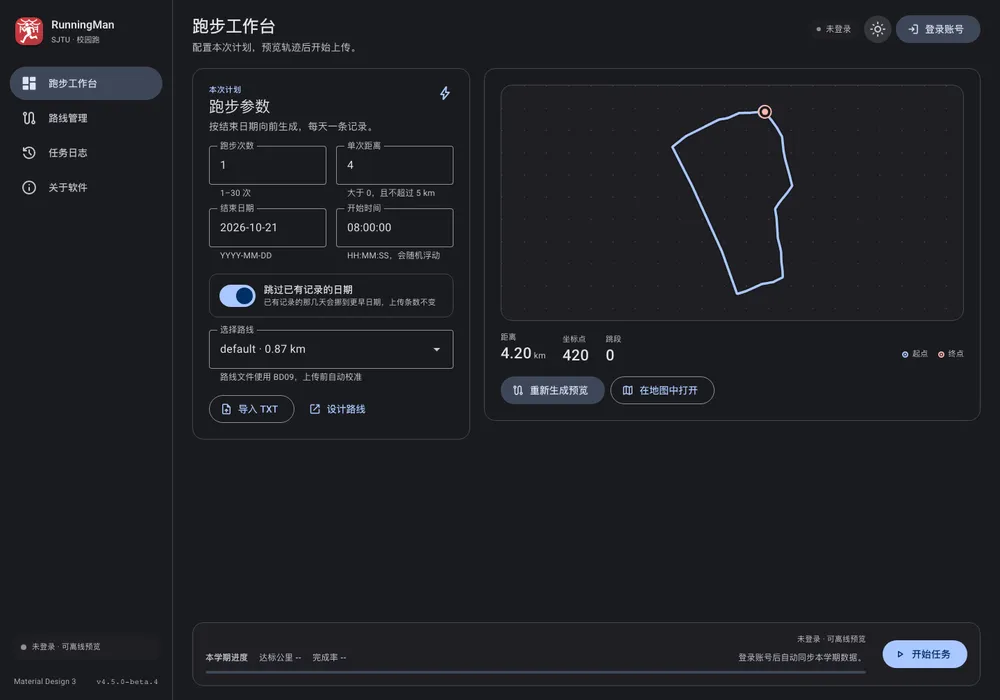
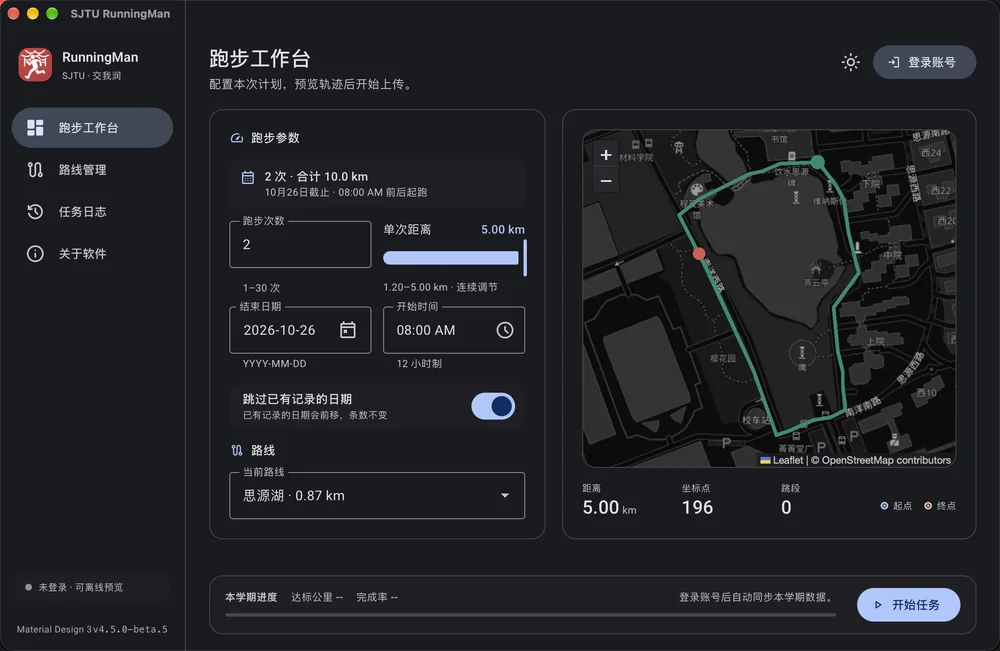
chore(release): 准备 4.5.0 正式版
- 桌面版本号统一为 4.5.0（Cargo.toml / package.json / Cargo.lock / e2e mock）
- CHANGELOG 补发布日期与地图底图去色条目
- 更新桌面、安卓、iOS 文档截图并校正截图规格
- 补充地图灰度化与亮暗主题跟随说明（中英）

diff --git a/desktop/e2e/mock-init.js b/desktop/e2e/mock-init.js
@@ -125,7 +125,7 @@ function handle(command, args) {
   switch (command) {
     case 'bootstrap':
       return {
-        version: 'v4.5.0-beta.4',
+        version: 'v4.5.0',
         date: '2026-10-21',
         settings: {
           dark: false,
@@ -211,7 +211,7 @@ function handle(command, args) {
     case 'verify_code':
       return { verified: true, locked: false, message: '二次验证成功' };
     case 'check_update':
-      return '当前 v4.5.0-beta.4 已是最新版本';
+      return '当前 v4.5.0 已是最新版本';
     case 'open_planner':
       return { notice: '规划器已打开：导出 TXT 后通过「导入 TXT」添加' };
     case 'preview_map':

diff --git a/docs/desktop.md b/docs/desktop.md
@@ -31,7 +31,7 @@
    「跳过已有记录的日期」默认开启：学期日历里已有记录的那几天会自动挪到更早的日期，上传条数仍等于设定次数；关闭后按结束日期连续向前生成。登录成功后客户端会按本学期未完成公里数自动设定跑步次数与单次距离，若这两个值已被你手动修改过则保持不变。
 2. 工作台的「当前路线」选择内置「思源湖」；在「路线管理」页通过「导入 TXT」添加 BD09 路线。文本为 UTF-8，每行 `longitude,latitude`，至少 2 个不同点。文件上限 2 MB、30,000 个点。导入保留独立副本；删除只影响导入副本，内置路线不能删除。
 3. 工作台自动预览当前距离的路线，无需登录或点击生成按钮；轨迹计算在本地完成，默认显示的在线底图需要网络，不再显示参数过期提示。红色线段表示超过 150 m 的跳段，蓝色为正常轨迹；起点与终点用不同标记。原始路线超过目标距离时自动截取；较短的开放路线往返，闭合路线循环。调整「单次距离」滑块时，右侧路线立即逐帧更新，终点沿路线平滑移动，缩短距离时沿路回退，视野保持稳定；内嵌地图也同步更新且不会关闭或重新加载。开启系统「减少动态效果」时直接显示新终点。工作台展示按所选距离计算的几何轨迹，右侧距离与左侧设置一致，不再额外增加 200 m，坐标点数为当前绘图顶点数；实际采样轨迹由后端生成；路线管理页同样按当前单次距离自动预览，切换、导入或删除路线后同步更新在线地图与本地轨迹，无需手动生成。最终录入与达标里程以服务器记录为准，可能与本地轨迹距离有差异。自动更新不会弹顶部提示。 工作台的预览卡片默认显示带在线底图的轨迹，下方保留距离、坐标点、跳段与操作按钮；路线名称在左侧路线选择框中查看。
-4. 启动软件或进入路线页面后，预览卡片默认加载内嵌在线地图，按当前距离显示路线。默认视野贴合整条路线，四周留白与本地轨迹预览接近；精细缩放仅用于自动适配路线，触控板、滚轮和加减按钮保留地图默认的缩放步进。地图由仅监听 `127.0.0.1` 的本机 HTTP 页面提供，**固定使用 OpenStreetMap**，不显示引擎切换或加载状态条；工作台不显示「收起地图」按钮，路线管理页仍可收起为本地 SVG 预览并重新展开；地图页面加载失败时保留本地预览，可点击重试。在线底图需要网络，仅当前视野持续没有可用瓦片时提示底图不可用，缩放产生的零星失败不会误报，恢复加载后自动清除提示；Leaflet 从 unpkg 加载。地图页面只在客户端运行期间有效，重启后重新打开即可。
+4. 启动软件或进入路线页面后，预览卡片默认加载内嵌在线地图，按当前距离显示路线。默认视野贴合整条路线，四周留白与本地轨迹预览接近；精细缩放仅用于自动适配路线，触控板、滚轮和加减按钮保留地图默认的缩放步进。地图由仅监听 `127.0.0.1` 的本机 HTTP 页面提供，**固定使用 OpenStreetMap**，不显示引擎切换或加载状态条；底图统一灰度化，暗色主题下反转为深色底图，切换主题时立即跟随且不重新加载页面；工作台不显示「收起地图」按钮，路线管理页仍可收起为本地 SVG 预览并重新展开；地图页面加载失败时保留本地预览，可点击重试。在线底图需要网络，仅当前视野持续没有可用瓦片时提示底图不可用，缩放产生的零星失败不会误报，恢复加载后自动清除提示；Leaflet 从 unpkg 加载。地图页面只在客户端运行期间有效，重启后重新打开即可。
 5. 「路线管理」页的「设计路线」在浏览器打开路线规划器，**默认百度地图**，页面内可切换 OpenStreetMap；导出 TXT 后通过「导入 TXT」添加。`NeedsReview/` 隔离路线不参与内置列表。
 6. 点击「登录账号」，在弹窗顶部的分段按钮里选择登录方式：
    - **账号密码**：填写 JAccount 账号和密码，图形验证码沿用旧版服务**自动识别并填入验证码输入框**，可直接修改；识别失败时可手动填写或刷新重试。账号密码校验失败后客户端会立刻自动换一张验证码，不需要再手动点刷新；自动刷新失败时才提示点刷新重试。账号、密码和验证码填齐且验证码加载完成后才可登录；填写过程中不显示缺项错误。输入法确认不会提交，普通 Enter 可在填齐后登录。重新编辑会清除上次登录错误；显示密码、刷新验证码不会触发登录。按需完成交我办 / 邮箱 / 短信二次验证。识别请求仅发送验证码图片，不附带账号、密码或登录 Cookie；图片与识别结果不写磁盘。

diff --git a/docs/en/desktop.md b/docs/en/desktop.md
@@ -29,7 +29,7 @@ Action results appear as a floating snackbar in the top-right corner of the work
    "Skip dates with existing records" is enabled by default: such dates move to earlier days while the upload count stays the same. After login the client estimates the plan from the remaining semester distance unless the values were edited manually.
 2. Pick the built-in “思源湖” (Siyuan Lake) route from "Current route" on the Workbench; import a BD09 TXT file from the Routes page (`longitude,latitude` per line, UTF-8, 2 MB / 30,000 points maximum). Imports keep an independent copy; only imported copies can be deleted.
 3. The Workbench calculates the current route geometry locally and previews it automatically, with no regenerate button or stale-parameter notice. The online base map shown by default requires network access. Blue segments are normal; segments longer than 150 m are highlighted in red. Short open routes are repeated; closed loops cycle. Dragging the distance slider updates route geometry immediately with a smoothly moving endpoint and no top notice; changing runs, date or start time does not invalidate route geometry. The Workbench preview card starts with the track over an online base map, followed by distance, point count, jumps and action buttons. The route name appears in the route selector on the left.
-4. Starting the app or entering a route page automatically loads the online map embedded in the preview card, using the current distance even before a sampled preview exists. The default view fits the complete route with margins similar to the local track preview; fractional zoom is used only to fit the route automatically, while trackpad, wheel and button interactions retain the map’s default zoom steps. The map is served by a loopback-only HTTP page and **uses OpenStreetMap only**, with no engine selector or loading status bar; the workbench has no "Collapse map" button, while Route management still lets you collapse to the local SVG preview and expand it again. If the map page cannot be loaded, the local preview remains available and you can retry. Online tiles require network, and failures are reported inside the card; Leaflet loads from unpkg. The page server listens on `127.0.0.1` only and keeps the HTML in memory; the map is available while the client is running.
+4. Starting the app or entering a route page automatically loads the online map embedded in the preview card, using the current distance even before a sampled preview exists. The default view fits the complete route with margins similar to the local track preview; fractional zoom is used only to fit the route automatically, while trackpad, wheel and button interactions retain the map’s default zoom steps. The map is served by a loopback-only HTTP page and **uses OpenStreetMap only**, with no engine selector or loading status bar; tiles are desaturated to greyscale and inverted to a dark base map in the dark theme, and switching themes updates the map immediately without reloading the page; the workbench has no "Collapse map" button, while Route management still lets you collapse to the local SVG preview and expand it again. If the map page cannot be loaded, the local preview remains available and you can retry. Online tiles require network, and failures are reported inside the card; Leaflet loads from unpkg. The page server listens on `127.0.0.1` only and keeps the HTML in memory; the map is available while the client is running.
 5. "Design route" on the Routes page opens the planner in the browser (Baidu by default, OSM optional). Export TXT and import it through the app. `NeedsReview/` routes are not listed.
 6. Sign in with JAccount. Pick a login method with the segmented control at the top of the dialog:
    - **Account and password**: the graphical captcha is recognised by the legacy service and prefilled in an editable CAPTCHA field. If recognition fails, fill in the field manually or refresh to retry. After a rejected account/password submission the client immediately fetches a new captcha, so no extra refresh click is needed; it only asks you to refresh when that automatic retry fails. Login is enabled only after the account, password and CAPTCHA are filled and CAPTCHA preparation has finished; incomplete input shows no missing-field error. IME confirmation never submits, while Enter submits a complete form. Editing clears the previous login error. Password visibility and CAPTCHA refresh do not submit the form. Two-factor verification via the SJTU app, email or SMS is supported when requested. Only the captcha image is sent to the recognition service, never the account, password or login cookies.

diff --git a/CHANGELOG.md b/CHANGELOG.md
@@ -4,7 +4,7 @@
 
 > **关于版本号**：一次发布用一个版本号，覆盖当次涉及的平台 —— 所以同一个版本号下的条目会分属不同平台，每条都用 **粗体标出平台**。各平台**当前**版本号的唯一来源仍是各自的配置文件：电脑版 `desktop/src-tauri/Cargo.toml`、安卓 `apps/android/app/build.gradle.kts`、鸿蒙 `apps/harmonyos/AppScope/app.json5`、iOS `apps/ios/SJTURunningMan.xcodeproj/project.pbxproj`。
 
-### v4.5.0 — 未发布
+### v4.5.0 — 2026-10-27
 
 - **电脑版** — **迁移为 Tauri 2 + React 19 + TypeScript + Rust**：前端在 `desktop/`，Rust 业务模块在 `desktop/src-tauri/`；界面只使用 Google 官方 `@material/web`（含 labs 的 card / navigation drawer / segmented button），完整采用 Material Design 3 的颜色、排版、形状、层级与动效。移除 Slint、`tiny-skia`、`rfd` 与旧界面组件；使用系统 WebView（WebView2 / WKWebView / WebKitGTK），不携带 Chromium、Qt 或 Python。发布产物仍为 Windows exe、macOS universal app/DMG、Linux amd64 / arm64 deb。
 - **电脑版** — **新增扫码登录**：登录弹窗顶部用 MD3 分段按钮切换「账号密码 / 扫码登录」。扫码面板显示与学校 JAccount 登录页同源的二维码，用「交我办」App、相机或微信扫码并在手机上确认即可登录；客户端通过学校 WebSocket 通道等待确认，二维码约每分钟自动更新，也可手动「刷新二维码」。切换登录方式、取消或关闭窗口会停止扫码订阅，旧一轮的迟到结果按序号丢弃。二维码与「刷新二维码」按钮沿用弹窗的 Material Design 3 排版与配色，深色主题下二维码卡片保持白底以便扫描。
@@ -21,6 +21,7 @@
 - **电脑版** — **修复二次验证码被误报无效**：识别到二次验证后尝试加载 2FA 页面以提取 `account` 与隐藏字段；下一跳只接受 POST 时忽略 GET 失败，继续沿用 `ulogin` 建立的会话，不再因 405 中断登录。验证成功后访问原登录响应的完成地址；按服务端 `errno` 区分验证码过期、会话失效与其他错误。新增离线测试锁定页面字段提取、提交表单与错误码映射。
 - **电脑版** — **路线与凭据处理调整**：导入的路线副本改存系统用户数据目录（旧程序目录里的 `Routes/`、`user.txt` 不再自动读取，需重新导入）；参数、日志与截图不落盘，账号、密码、验证码与 Cookie 只保留在内存。
 - **电脑版** — **地图预览改由仅监听 `127.0.0.1` 的本机页面提供**：路线预览固定使用 OpenStreetMap，路线规划器默认百度、可在页面内切换 OpenStreetMap；浏览器可正常发送 OSM 要求的来源信息，不再用 `file://` 打开，避免底图 403；刷新地图需保持客户端运行。
+- **电脑版** — **地图底图去色并跟随亮暗主题**：内嵌路线预览的 OpenStreetMap 瓦片统一灰度化，暗色主题下反转为深色底图；缩放控件、版权信息与空态配色同步适配。切换主题时通过消息通道立即更新地图，不重新加载页面。
 - **电脑版** — **路线预览地图改为卡片内嵌显示**：「在地图中打开」不再打开系统浏览器，而是把本机 OpenStreetMap 页面嵌入当前预览卡片，地图内不再显示引擎切换或加载状态条；再次点击「收起地图」回到本地 SVG 预览，打开成功也不弹顶部提示。切换路线、重新生成预览或参数变动后自动关闭旧地图；本机页面只允许应用自身（含开发服务器）嵌入，规划器仍在独立浏览器中打开。
 - **电脑版** — **新增只读学期数据展示**：首页「跑步计划」下方增加「本学期进度」卡片，显示当前学期的达标公里与完成率；「任务日志」改为学期日历 + 运行日志双栏，日历区分计入成绩、无效记录与未跑。登录、二次验证或成功上传后自动后台同步，未登录显示 `--` 与占位日历，同步失败只提示一行日志且不改变登录状态，统计与打卡记录不落盘。
 - **电脑版** — **操作结果改为内联状态条并自动收起**：「二次验证成功」「登录成功」「路线已导入」等提示出现在工作区顶部，6 秒后自动消失，不使用浮层遮住正在编辑的内容；登录与二次验证弹窗内仍就地显示，提示文字同时保留在「任务日志」。

diff --git a/docs/images/README.md b/docs/images/README.md
@@ -6,25 +6,25 @@
 
 | 文件 | 尺寸 | 内容 | 体积 |
 | --- | --- | --- | --- |
-| `desktop-tauri-light.webp` | 1000×700 | Tauri 2 + MD3 电脑版浅色工作台，含轨迹预览 | 约 38 KB |
-| `desktop-tauri-dark.webp` | 1000×700 | Tauri 2 + MD3 电脑版深色工作台，含轨迹预览 | 约 37 KB |
+| `desktop-tauri-light.webp` | 1000×651 | Tauri 2 + MD3 电脑版浅色工作台，含计划摘要与内嵌路线地图 | 约 43 KB |
+| `desktop-tauri-dark.webp` | 1000×651 | Tauri 2 + MD3 电脑版深色工作台，含计划摘要与内嵌路线地图 | 约 40 KB |
 | `desktop-tauri-login.webp` | 1000×700 | JAccount 登录窗口（账号密码 / 扫码分段切换），验证码输入框与图片已遮挡 | 约 20 KB |
 | `desktop-tauri-login-qr.webp` | 1000×700 | 扫码登录面板，示例二维码不可用 | 约 27 KB |
-| `desktop-tauri-logs.webp` | 1000×700 | 学期日历与运行日志两栏 | 约 30 KB |
-| `desktop-tauri-routes.webp` | 1000×700 | 导入路线、跳段警告与删除入口 | 约 30 KB |
+| `desktop-tauri-logs.webp` | 1000×700 | 学期日历与运行日志两栏 | 约 17 KB |
+| `desktop-tauri-routes.webp` | 1000×700 | 导入路线、跳段警告与删除入口 | 约 21 KB |
 | `desktop-native-light.webp` | 1000×732 | 旧 Rust + Slint 浅色界面（历史对照） | 约 21 KB |
 | `desktop-native-dark.webp` | 1000×732 | 旧 Rust + Slint 深色界面（历史对照） | 约 21 KB |
 | `desktop-main.webp` | 1000×686 | 旧 Qt 电脑版主界面（历史对照，非当前界面） | 37 KB |
 | `desktop-preview.webp` | 1000×727 | 旧版本机地图页的 OSM 轨迹图（含当时的底图状态条；现预览地图嵌入卡片、固定 OSM 且不显示状态条） | 约 56 KB |
-| `android-main.webp` | 480×1056 | 安卓主界面：参数配置卡片与「一键跑步」按钮 | 21 KB |
+| `android-main.webp` | 480×1056 | 安卓工作台：本学期进度、任务设置与四页底部导航 | 24 KB |
 | `android-route.webp` | 480×1056 | 安卓路线设计页：地图上已连点若干坐标 | 40 KB |
-| `ios-main.webp` | 480×974 | iOS 主界面：参数配置与运行日志 | 21 KB |
+| `ios-main.webp` | 480×1044 | iOS 工作台：本学期进度、任务设置与四页底部导航 | 22 KB |
 | `harmonyos-main.webp` | 480×1069 | 鸿蒙主界面：账号页与跑步参数页 | 26 KB |
 | `macos-install-dmg.webp` | 1000×652 | macOS：DMG 挂载后拖拽安装到 Applications | 15 KB |
 | `macos-gatekeeper.webp` | 534×580 | macOS：首次打开被 Gatekeeper 拦截的弹窗 | 19 KB |
 | `macos-open-anyway.webp` | 1000×849 | macOS：系统设置 → 隐私与安全性 → 仍要打开 | 41 KB |
 
-全部为 WebP。`desktop-tauri-*` 由 mock IPC 下的生产前端截图生成；旧 Rust + Slint 与 Qt 截图保留作历史对照。
+全部为 WebP。`desktop-tauri-*` 由生产前端截图生成，部分界面用 mock IPC 数据填充；旧 Rust + Slint 与 Qt 截图保留作历史对照。
 
 应用界面截图（桌面端 `desktop-tauri-*`、安卓、iOS、鸿蒙）按手机 480 px / 桌面 1000 px 宽存放，其中 `desktop-main.webp` 是迁移前的旧 Qt 界面，仅作历史对照。最后三张是 macOS 的**安装流程**截图，内容是系统弹窗与系统设置界面，按原始比例裁剪，未套用统一宽度。
 
